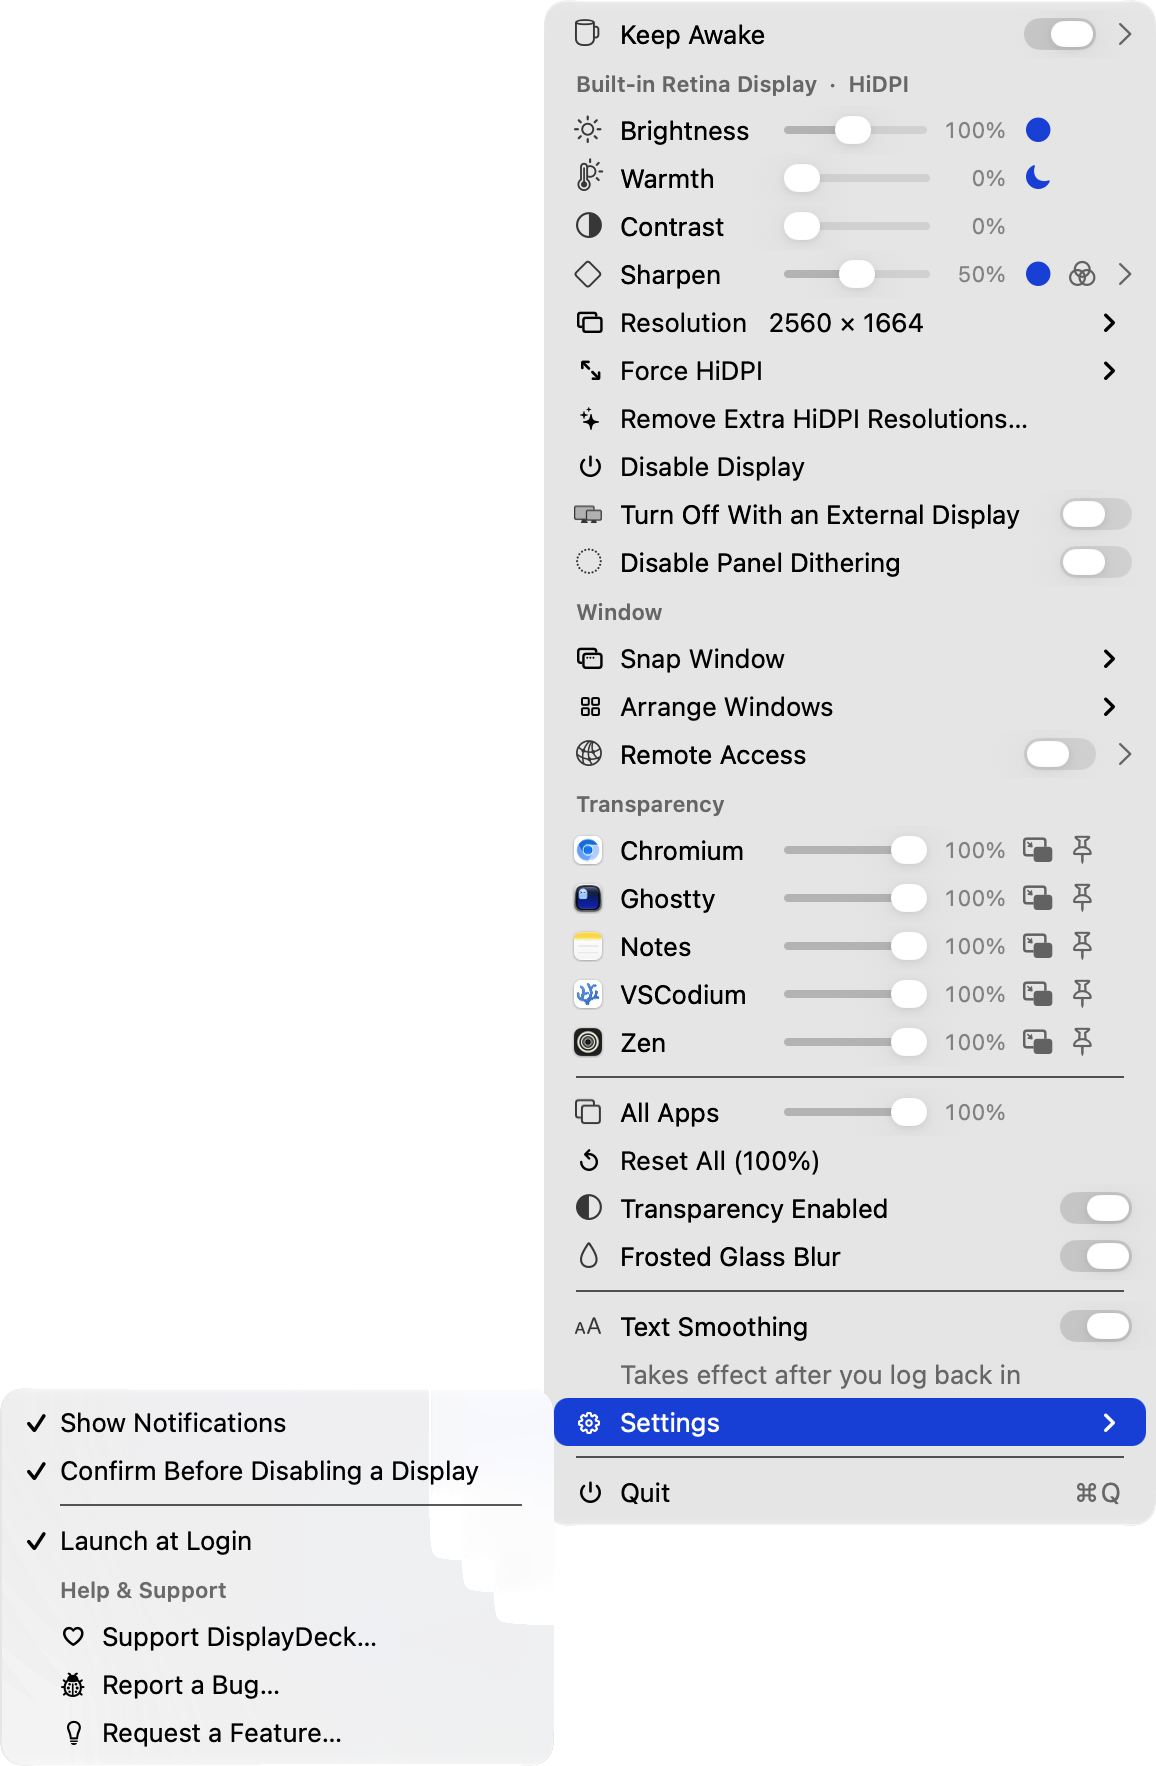
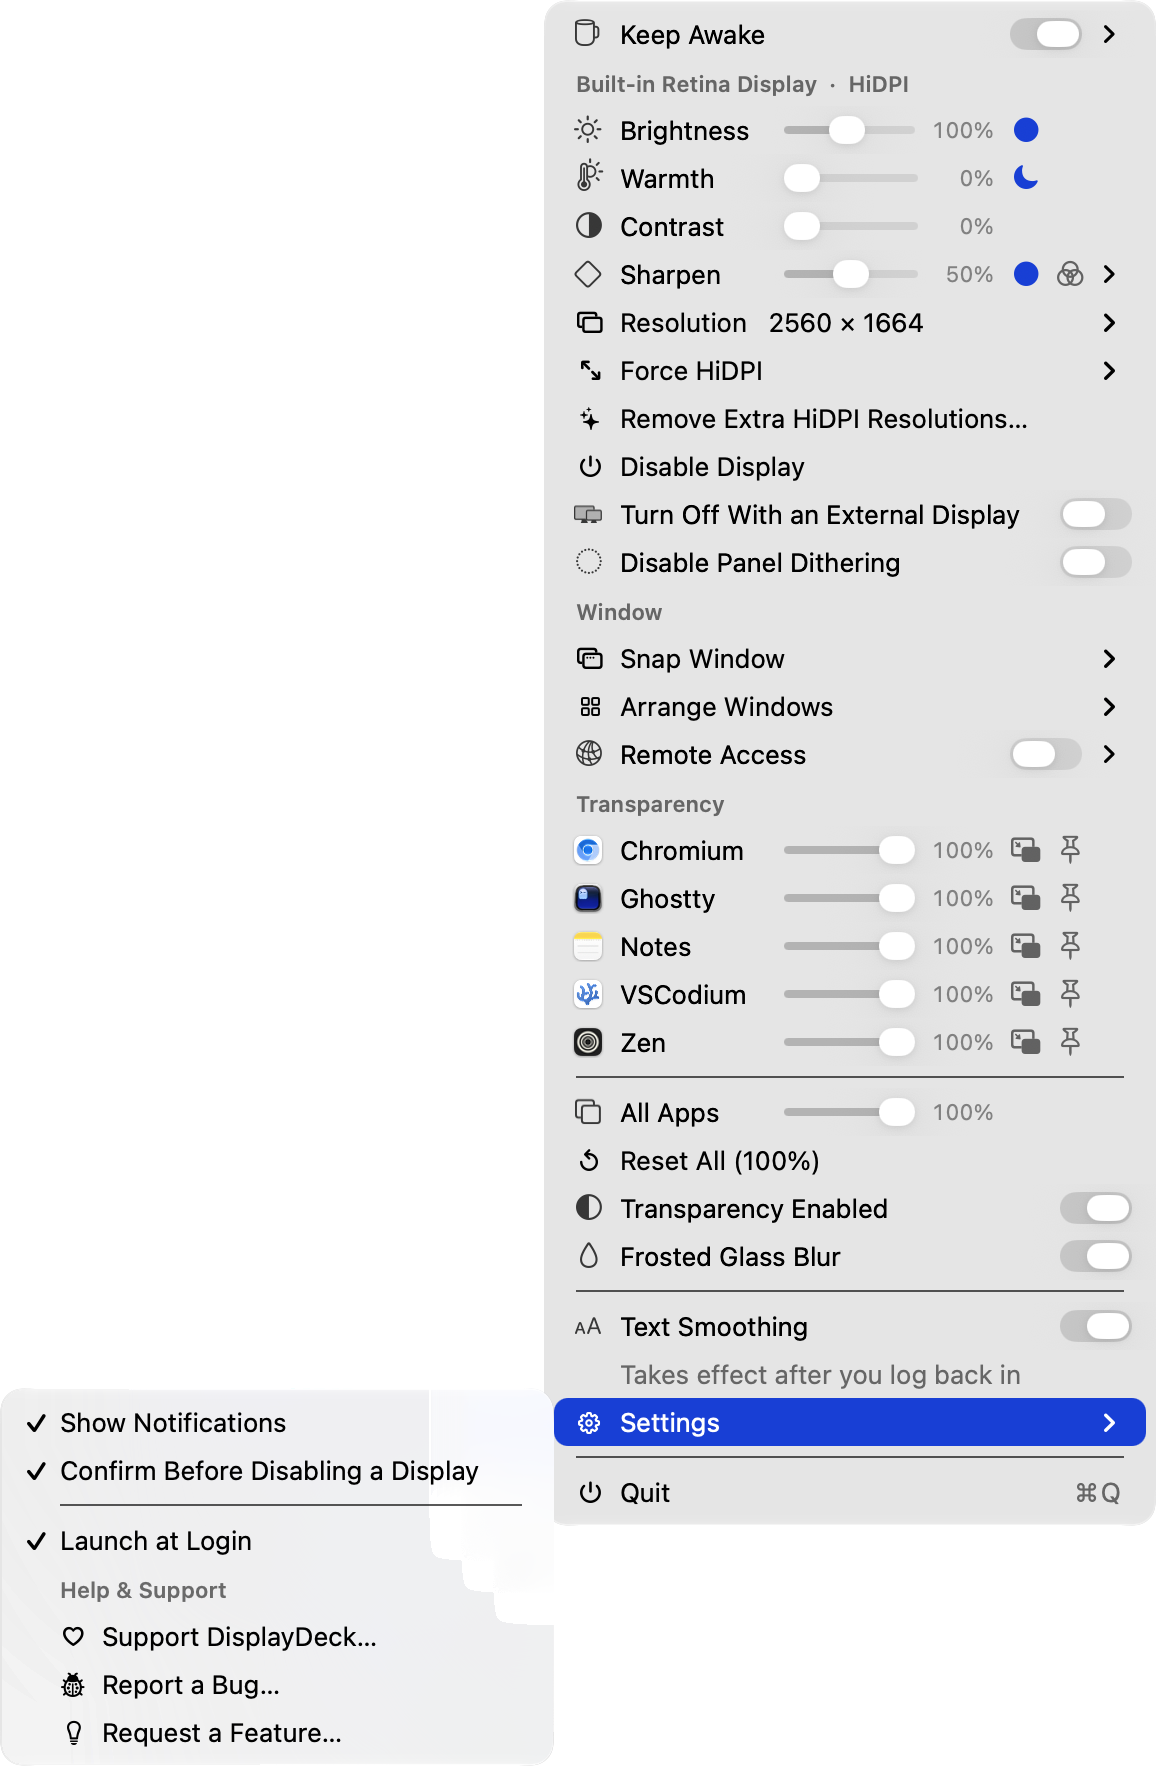
v2.8.16: submenu arrows line up

diff --git a/docs/index.html b/docs/index.html
@@ -35,7 +35,7 @@
         "processorRequirements": "Apple Silicon",
         "url": "https://displaydeck.pyxis3.ai/",
         "downloadUrl": "https://github.com/pyxis3-ai/displaydeck/releases/latest",
-        "softwareVersion": "2.8.15",
+        "softwareVersion": "2.8.16",
         "license": "https://opensource.org/licenses/MIT",
         "author": { "@type": "Organization", "name": "PYXIS3" },
         "description": "A tiny macOS menu-bar app: disable screens, force HiDPI, boost brightness past 100%, warm the colors (auto at night), snap and tile windows, make any window transparent or float, reach your Mac from anywhere, and keep it awake.",

diff --git a/src/app/AppDelegate.m b/src/app/AppDelegate.m
@@ -59,7 +59,9 @@ static NSString *const kLargerSizesHint = @"Larger sizes = more space, softer te
 static const NSInteger kSliderItemTag = 0x51D5;
 static const CGFloat kAccessoryWidth = 18;
 // Right edge inset 12, arrow slot 16, two buttons with a gap of 4, gap 7.
-static const CGFloat kSliderTrailingReserve = 12 + 16 + kAccessoryWidth * 2 + 4 + 7;
+static const CGFloat kSliderTrailingReserve = 12 + 22 + kAccessoryWidth * 2 + 4 + 7;
+// Where macOS draws its own submenu arrow, so the rows built here match it.
+static const CGFloat kSubmenuArrowInset = 20;
 static const CGFloat kRowHeight = 24;
 static const void *kDDPctLabelKey = &kDDPctLabelKey;
 
@@ -75,6 +77,16 @@ static NSImage *ddSymbol(NSString *name) {
     NSImageSymbolConfiguration *cfg =
         [NSImageSymbolConfiguration configurationWithPointSize:13 weight:NSFontWeightRegular];
     NSImage *img = [[NSImage imageWithSystemSymbolName:name accessibilityDescription:nil]
+                    imageWithSymbolConfiguration:cfg];
+    img.template = YES;
+    return img;
+}
+
+// The same weight and size as the arrow macOS draws on a submenu item.
+static NSImage *ddSubmenuArrow(void) {
+    NSImageSymbolConfiguration *cfg =
+        [NSImageSymbolConfiguration configurationWithPointSize:10 weight:NSFontWeightBold];
+    NSImage *img = [[NSImage imageWithSystemSymbolName:@"chevron.right" accessibilityDescription:nil]
                     imageWithSymbolConfiguration:cfg];
     img.template = YES;
     return img;
@@ -535,8 +547,8 @@ static NSAttributedString *ddColumns(NSArray<NSString *> *cols, NSArray<NSNumber
     name.translatesAutoresizingMaskIntoConstraints = NO;
     [row addSubview:name];
 
-    NSImageView *chevron = [NSImageView imageViewWithImage:ddSymbol(@"chevron.right")];
-    chevron.contentTintColor = [NSColor tertiaryLabelColor];
+    NSImageView *chevron = [NSImageView imageViewWithImage:ddSubmenuArrow()];
+    chevron.contentTintColor = [NSColor labelColor];
     chevron.translatesAutoresizingMaskIntoConstraints = NO;
     [row addSubview:chevron];
 
@@ -556,7 +568,7 @@ static NSAttributedString *ddColumns(NSArray<NSString *> *cols, NSArray<NSNumber
         [icon.heightAnchor constraintEqualToConstant:16],
         [name.leadingAnchor constraintEqualToAnchor:icon.trailingAnchor constant:8],
         [name.centerYAnchor constraintEqualToAnchor:row.centerYAnchor],
-        [chevron.trailingAnchor constraintEqualToAnchor:row.trailingAnchor constant:-11],
+        [chevron.trailingAnchor constraintEqualToAnchor:row.trailingAnchor constant:-kSubmenuArrowInset],
         [chevron.centerYAnchor constraintEqualToAnchor:row.centerYAnchor],
         [sw.trailingAnchor constraintEqualToAnchor:chevron.leadingAnchor constant:-9],
         [sw.centerYAnchor constraintEqualToAnchor:row.centerYAnchor],
@@ -1297,12 +1309,12 @@ static NSAttributedString *ddColumns(NSArray<NSString *> *cols, NSArray<NSNumber
             [name.leadingAnchor constraintEqualToAnchor:row.leadingAnchor constant:14]];
     }
     if (submenu) {
-        NSImageView *chevron = [NSImageView imageViewWithImage:ddSymbol(@"chevron.right")];
-        chevron.contentTintColor = [NSColor tertiaryLabelColor];
+        NSImageView *chevron = [NSImageView imageViewWithImage:ddSubmenuArrow()];
+        chevron.contentTintColor = [NSColor labelColor];
         chevron.translatesAutoresizingMaskIntoConstraints = NO;
         [row addSubview:chevron];
         [constraints addObjectsFromArray:@[
-            [chevron.trailingAnchor constraintEqualToAnchor:row.trailingAnchor constant:-11],
+            [chevron.trailingAnchor constraintEqualToAnchor:row.trailingAnchor constant:-kSubmenuArrowInset],
             [chevron.centerYAnchor constraintEqualToAnchor:row.centerYAnchor],
         ]];
     }

diff --git a/README.md b/README.md
@@ -7,7 +7,7 @@
 
 Disable & enable screens, Force HiDPI, brightness with EDR boost, color warmth (with auto-night), window tiling/snapping, transparency, blur, keep-on-top & picture-in-picture, keep-awake, remote access.
 
-[![Release](https://img.shields.io/badge/release-v2.8.15-2ea44f?style=flat-square)](https://github.com/pyxis3-ai/displaydeck/releases/latest)
+[![Release](https://img.shields.io/badge/release-v2.8.16-2ea44f?style=flat-square)](https://github.com/pyxis3-ai/displaydeck/releases/latest)
 [![License](https://img.shields.io/badge/license-MIT-3da639?style=flat-square)](LICENSE)
 [![Platform](https://img.shields.io/badge/macOS-14%2B-000?style=flat-square&logo=apple&logoColor=white)](#requirements)
 [![Apple Silicon](https://img.shields.io/badge/Apple_Silicon-555?style=flat-square)](#requirements)

diff --git a/CHANGELOG.md b/CHANGELOG.md
@@ -2,6 +2,12 @@
 
 All notable changes to DisplayDeck are documented here. Format follows [Keep a Changelog](https://keepachangelog.com); versions follow [SemVer](https://semver.org).
 
+## [2.8.16] - 2026-10-10
+
+### Fixed
+
+- **Submenu arrows line up.** The arrows on Keep Awake, Sharpen and Remote Access sat further right and looked lighter than the standard ones; they now match in position, weight and colour.
+
 ## [2.8.15] - 2026-10-10
 
 ### Fixed
